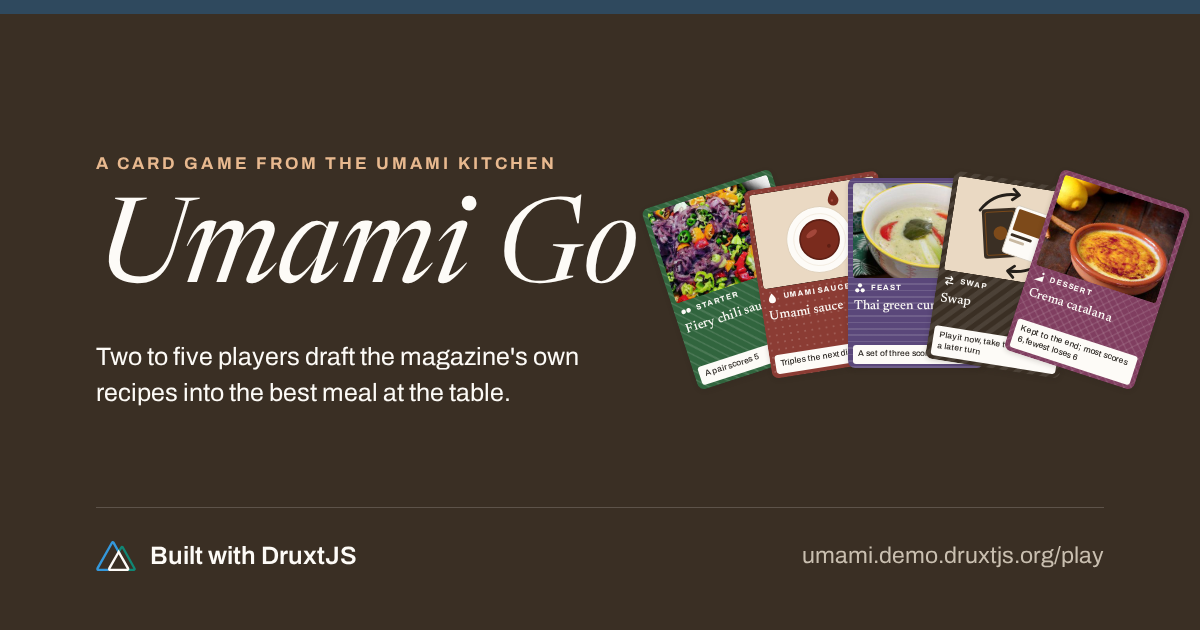
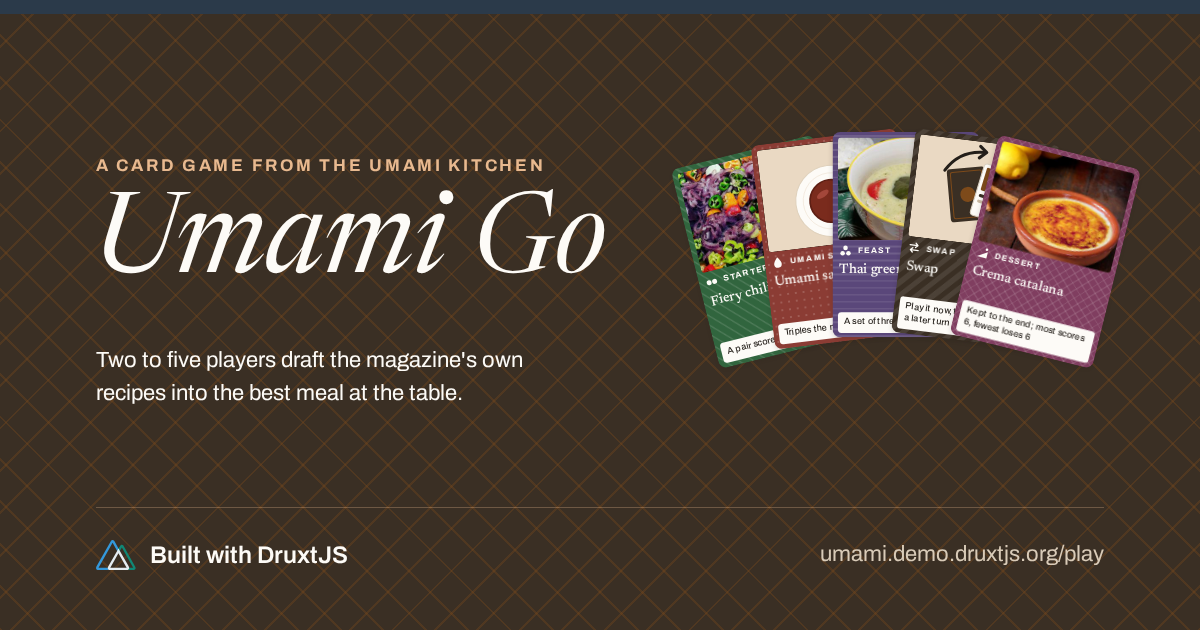
fix(nuxt): the umami go share card fans its cards on an arc over the night lattice

diff --git a/nuxt/scripts/render-og-umami-go.js b/nuxt/scripts/render-og-umami-go.js
@@ -1,0 +1,100 @@
+/**
+ * Renders the Umami Go share card, static/og/umami-go.png, at 1200 by 630
+ * from a running site's /play page, so the card shows the hero's own lattice
+ * and its fan of cards: `node scripts/render-og-umami-go.js [site]`, with the
+ * browser tests installed. The site defaults to the live demo.
+ */
+const path = require('path')
+
+const here = __dirname
+// Playwright lives with the browser tests, not in the app's dependencies.
+const { chromium } = require(require.resolve('@playwright/test', {
+  paths: [path.join(here, '..', '..', 'e2e')],
+}))
+const site = (process.argv[2] || 'https://umami.demo.druxtjs.org').replace(
+  /\/$/,
+  ''
+)
+const out = path.join(here, '..', 'static', 'og', 'umami-go.png')
+
+const mark = `<svg viewBox="0 0 452 342" aria-hidden="true"><path fill="#3498DB" d="M139 330l-1-2c-2-4-2-8-1-13H29L189 31l67 121 22-16-67-121c-1-2-9-14-22-14-6 0-15 2-22 15L5 303c-1 3-8 16-2 27 4 6 10 12 24 12h136c-14 0-21-6-24-12z"/><path fill="#108775" d="M447 304L317 70c-2-2-9-15-22-15-6 0-15 3-22 15l-17 28v54l39-67 129 230h-49a23 23 0 0 1-2 14l-1 1c-6 11-21 12-23 12h76c3 0 17-1 24-12 3-5 5-14-2-26z"/><path fill="#E5ECF1" d="M376 330v-1l1-2c1-4 2-8 1-12l-4-12-102-178-15-27h-1l-15 27-102 178-4 12a24 24 0 0 0 2 15c4 6 10 12 24 12h190c3 0 18-1 25-12zM256 152l93 163H163l93-163z"/></svg>`
+
+const style = `
+  body > *:not(.og) { display: none !important; }
+  html, body { margin: 0; overflow: hidden; }
+  .og {
+    position: fixed; inset: 0; width: 1200px; height: 630px; overflow: hidden;
+    color: #fdfbf7; font-family: Archivo, sans-serif;
+  }
+  .og__rule { position: absolute; top: 0; left: 0; right: 0; height: 14px; background: #2b3a4a; }
+  .og__kicker {
+    position: absolute; left: 96px; top: 152px; color: #e8b98f;
+    font-size: 17px; font-weight: 700; letter-spacing: 0.16em; text-transform: uppercase;
+  }
+  .og__title {
+    position: absolute; left: 92px; top: 188px; margin: 0;
+    font-family: Newsreader, serif; font-size: 112px; font-style: italic;
+    font-weight: 400; letter-spacing: -0.005em; line-height: 1.05;
+  }
+  .og__lede { position: absolute; left: 96px; top: 344px; width: 470px; font-size: 22px; line-height: 1.5; }
+  .og__fan.go-hero__fan {
+    position: absolute; left: 676px; top: 132px; margin: 0;
+    transform: scale(1.08); transform-origin: 50% 0;
+  }
+  .og__fan .go-hero__fan-card { display: block !important; }
+  .og__foot {
+    position: absolute; left: 96px; right: 96px; bottom: 56px; padding-top: 28px;
+    display: flex; align-items: center; justify-content: space-between;
+    border-top: 1px solid rgba(232, 185, 143, 0.3);
+  }
+  .og__built { display: flex; align-items: center; gap: 14px; font-size: 24px; font-weight: 600; }
+  .og__built svg { height: 30px; width: auto; }
+  .og__url { color: #d9cbb8; font-size: 22px; }
+`
+
+;(async () => {
+  const browser = await chromium.launch()
+  const page = await browser.newPage({
+    viewport: { width: 1440, height: 900 },
+    deviceScaleFactor: 1,
+  })
+  await page.goto(`${site}/play`, { waitUntil: 'load' })
+  // The fan's photographs, loaded before the card is composed.
+  await page.waitForFunction(() =>
+    [...document.querySelectorAll('.go-hero__fan img')].every(
+      (img) => img.complete && img.naturalWidth > 0
+    )
+  )
+  await page.evaluate(
+    ({ mark, host }) => {
+      const hero = document.querySelector('.go-hero')
+      const fan = document.querySelector('.go-hero__fan')
+      const card = document.createElement('div')
+      card.className = 'og'
+      // The hero's own night lattice, as the site draws it.
+      const bg = getComputedStyle(hero)
+      card.style.backgroundImage = bg.backgroundImage
+      card.style.backgroundColor = bg.backgroundColor
+      card.innerHTML = `<div class="og__rule"></div>
+        <div class="og__kicker">A card game from the Umami kitchen</div>
+        <h1 class="og__title">Umami Go</h1>
+        <p class="og__lede">Two to five players draft the magazine's own recipes into the best meal at the table.</p>
+        <div class="og__foot">
+          <div class="og__built">${mark}Built with DruxtJS</div>
+          <div class="og__url">${host}/play</div>
+        </div>`
+      fan.classList.add('og__fan')
+      card.appendChild(fan)
+      document.body.appendChild(card)
+    },
+    { mark, host: new URL(site).host }
+  )
+  await page.addStyleTag({ content: style })
+  await page.setViewportSize({ width: 1200, height: 630 })
+  await page.evaluate(() => document.fonts.ready)
+  await page.waitForTimeout(500)
+  await page.screenshot({ path: out, type: 'png' })
+  await browser.close()
+  // eslint-disable-next-line no-console
+  console.log(`wrote ${out}`)
+})()

diff --git a/CHANGELOG.md b/CHANGELOG.md
@@ -73,6 +73,9 @@ The demo is a site without releases, so changes are grouped by date.
   keeps its own size beside the words, fading into the night lattice, rather
   than being stretched and cropped. The masthead and the bar above it keep
   their contents within 1600px.
+- The Umami Go share card shows the hero's fan of cards on its arc, over the
+  banner's night lattice, rendered from the live page by
+  `nuxt/scripts/render-og-umami-go.js`.
 - Switching language fetches views and blocks again in the new language,
   even while the first fetch is still running.
 - A Spanish front page is the home page, with its banner and in Spanish.
